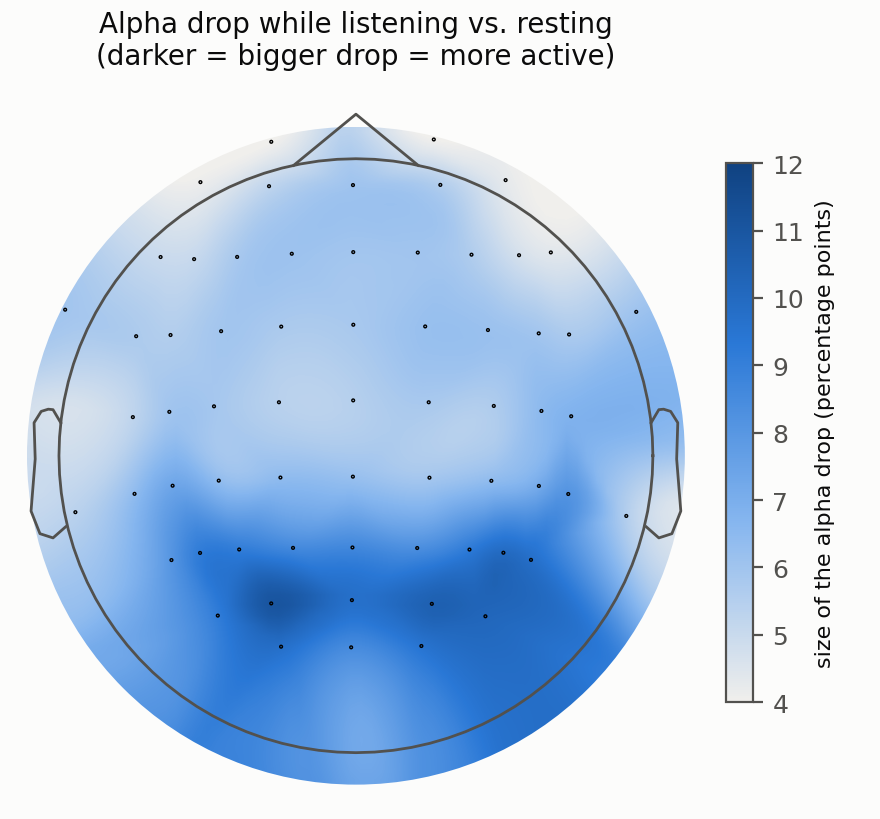
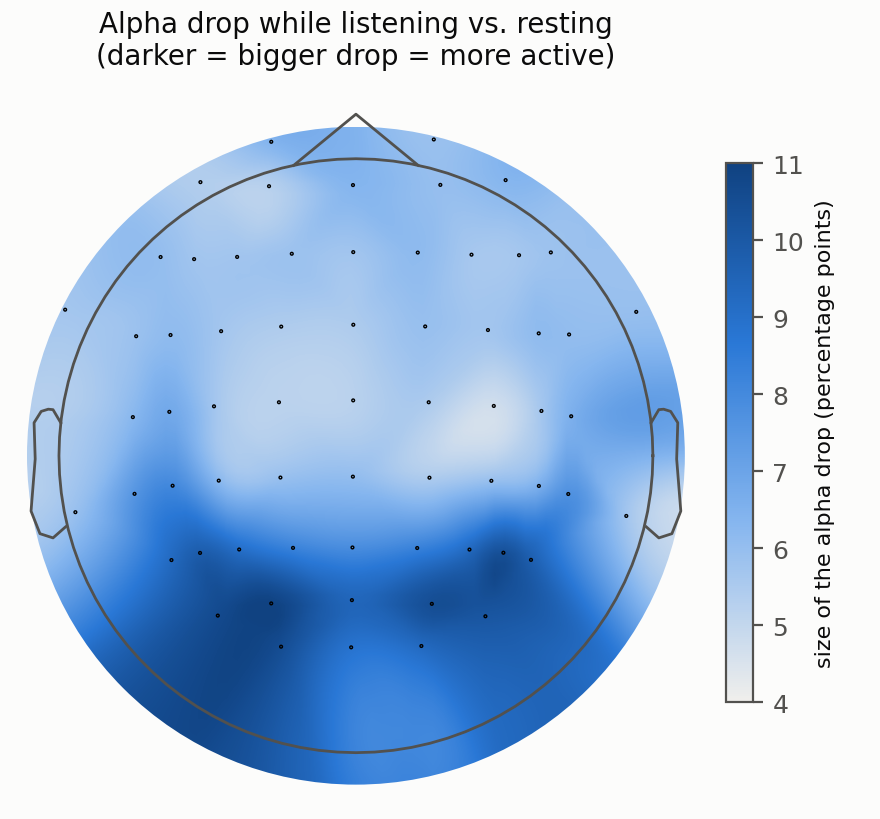
Both pages: results from ICA-cleaned features at 500 Hz, coding reliability, Spanish wording

diff --git a/es/index.html b/es/index.html
@@ -139,7 +139,7 @@ footer { margin-top: 60px; padding-top: 16px; border-top: 1px solid var(--line);
     <div class="head"><span class="num">Hallazgo 1</span><span class="badge solid">sólido</span></div>
     <h3>Escuchar "enciende" el cerebro, sobre todo en la parte posterior de la cabeza</h3>
     <figure>
-      <div class="plate small"><img src="../figs/es/alpha_listening.png?v=202611171425" alt="Mapa de la cabeza visto desde arriba: la bajada de alfa es mayor (azul oscuro) en la parte posterior y menor (claro) delante y en los lados"></div>
+      <div class="plate small"><img src="../figs/es/alpha_listening.png?v=202611181200" alt="Mapa de la cabeza visto desde arriba: la bajada de alfa es mayor (azul oscuro) en la parte posterior y menor (claro) delante y en los lados"></div>
       <figcaption>La cabeza vista desde arriba (nariz arriba). Azul más oscuro = mayor bajada de alfa al escuchar respecto al reposo. El alfa bajó en todas partes, al menos 4 puntos porcentuales, así que la escala empieza en 4 para que se vea dónde bajó más.</figcaption>
     </figure>
     <div class="label">Qué vimos</div>
@@ -147,55 +147,55 @@ footer { margin-top: 60px; padding-top: 16px; border-top: 1px solid var(--line);
     <div class="label">Por qué importa</div>
     <p>Las personas tuvieron los ojos cerrados todo el tiempo, así que no se trata de ver nada. Encaja con la idea del proyecto: escuchar estos sonidos implica regiones del cerebro que normalmente asociamos a la visión, quizá porque se construyen imágenes mentales.</p>
     <div class="label">Cuidado</div>
-    <p>El alfa también baja simplemente al prestar atención. Todavía no podemos decir que las zonas visuales estén haciendo un trabajo "visual".</p>
+    <p>El alfa también baja simplemente al prestar atención. Todavía no podemos decir que las zonas visuales estén haciendo un trabajo "visual". La bajada no es solo cansancio al final de la sesión: se ve igual de clara frente al reposo del principio que frente al del final.</p>
   </article>
 
   <article class="finding">
     <div class="head"><span class="num">Hallazgo 2</span><span class="badge promising">prometedor</span></div>
     <h3>Cuanto más movimiento imaginaban, menos alfa tenían</h3>
     <figure>
-      <div class="plate"><img src="../figs/es/movement_alpha.png?v=202611171425" alt="Gráfico de barras: el alfa está por encima de la media del oyente con imágenes quietas y baja escalón a escalón con movimiento lento, moderado y rápido"></div>
+      <div class="plate"><img src="../figs/es/movement_alpha.png?v=202611181200" alt="Gráfico de barras: el alfa de toda la cabeza está por encima de la media del oyente con imágenes quietas y baja escalón a escalón con movimiento lento, moderado y rápido"></div>
       <figcaption>Cada barra compara a las personas consigo mismas: cuánto alfa tenían con ese tipo de imagen, respecto a su propia media. Las líneas negras muestran la incertidumbre.</figcaption>
     </figure>
     <div class="label">Qué vimos</div>
     <p>Cuando alguien describía la imagen evocada como quieta, su alfa era más alto; cuando describía un movimiento rápido o intenso, era más bajo, escalón a escalón. Se mantiene al comparar a cada persona solo consigo misma.</p>
     <div class="label">Por qué importa</div>
-    <p>Une una medida cerebral con lo que las personas vivieron, que es justo de lo que trata el proyecto: el sonido percibido como algo que se mueve en el espacio. No se explica por lo activador o agradable que resultaba el sonido, y se mantiene al eliminar de los registros la actividad de ojos y músculos (incluso se refuerza un poco).</p>
+    <p>Une una medida cerebral con lo que las personas vivieron, que es justo de lo que trata el proyecto: el sonido percibido como algo que se mueve en el espacio. No se explica por lo activador o agradable que resultaba el sonido, y se mantiene al eliminar de los registros la actividad de ojos y músculos. Es aún más claro cuando la persona mencionaba expresamente una velocidad.</p>
     <div class="label">Un detalle intrigante</div>
-    <p>La relación parecía más fuerte con los sonidos sintéticos de SuperCollider que con los paisajes naturales. Una idea: con una grabación de lluvia, la persona <i>reconoce</i> la fuente y ya sabe cómo se mueve; con un sonido sintético abstracto no hay fuente, así que el oyente tiene que <i>construir</i> el movimiento a partir del propio sonido. La diferencia entre los dos tipos de sonido aún no es estadísticamente clara, así que por ahora es una hipótesis para el próximo estudio.</p>
+    <p>La relación va en la misma dirección con los sonidos sintéticos de SuperCollider y con los paisajes naturales, y parecía algo más fuerte con los sintéticos. Una idea: con una grabación de lluvia, la persona <i>reconoce</i> la fuente y ya sabe cómo se mueve; con un sonido sintético abstracto no hay fuente, así que el oyente tiene que <i>construir</i> el movimiento a partir del propio sonido. Pero la diferencia entre los dos tipos de sonido es pequeña y está lejos de ser estadísticamente clara, así que por ahora es solo una idea para el próximo estudio.</p>
     <div class="label">Cuidado</div>
-    <p>Alrededor de dos tercios de los oyentes (18 de 27) muestran el efecto. Es pequeño, está repartido por la cabeza en lugar de solo en la parte posterior, y lo encontramos buscando entre muchas relaciones posibles. Hay que confirmarlo con participantes nuevos.</p>
+    <p>Es una tendencia de grupo: algo más de la mitad de los oyentes (16 de 27) la muestran por sí solos. Es pequeña, está repartida por la cabeza en lugar de solo en la parte posterior, y la encontramos buscando entre muchas relaciones posibles. Hay que confirmarla con participantes nuevos.</p>
   </article>
 
   <article class="finding">
     <div class="head"><span class="num">Hallazgo 3</span><span class="badge unclear">aún no se sabe</span></div>
     <h3>Cada tipo de sonido natural parecía dejar una huella distinta, pero puede venir de ojos y músculos</h3>
     <figure>
-      <div class="plate"><img src="../figs/es/soundscapes.png?v=202611171425" alt="Barras horizontales para siete paisajes sonoros: trueno y olas los más altos, pájaros el más bajo"></div>
-      <figcaption>Una de las varias medidas que diferían entre paisajes: la "pendiente" del espectro de la señal cerebral. Una pendiente más inclinada suele interpretarse como un estado cerebral más tranquilo, menos excitado.</figcaption>
+      <div class="plate"><img src="../figs/es/soundscapes.png?v=202611181200" alt="Barras horizontales para siete paisajes sonoros: trueno y terremoto los más altos, lluvia y río los más bajos, todos con barras de error amplias"></div>
+      <figcaption>La medida que más seguía diferenciando los paisajes tras la limpieza: la "pendiente" del espectro de la señal cerebral. Una pendiente más inclinada suele interpretarse como un estado cerebral más tranquilo, menos excitado. Las líneas negras muestran la incertidumbre, que es grande.</figcaption>
     </figure>
     <div class="label">Qué vimos</div>
-    <p>Pájaros, río, lluvia, viento, olas, trueno y terremoto produjeron patrones cerebrales distintos, sobre todo en el equilibrio entre ritmos lentos y rápidos y en la complejidad de la señal. El canto de los pájaros tendía a ir con la señal más "viva", y el trueno y las olas con la más tranquila.</p>
+    <p>En los registros sin limpiar, pájaros, río, lluvia, viento, olas, trueno y terremoto produjeron patrones cerebrales claramente distintos, sobre todo en el equilibrio entre ritmos lentos y rápidos y en la complejidad de la señal.</p>
     <div class="label">Por qué hemos cambiado de opinión</div>
-    <p>El EEG también recoge los movimientos de los ojos (que siguen moviéndose bajo los párpados cerrados) y la tensión de los músculos de la cara y la cabeza. Al eliminar esas señales, las diferencias entre paisajes casi desaparecieron. Así que probablemente los distintos paisajes hacían mover los ojos o tensar los músculos de forma distinta (piensa en un trueno), más que cambiar la actividad cerebral en sí. Es interesante por sí mismo, pero no es un efecto cerebral.</p>
+    <p>El EEG también recoge los movimientos de los ojos (que siguen moviéndose bajo los párpados cerrados) y la tensión de los músculos de la cara y la cabeza. Al eliminar esas señales, la mayoría de las diferencias entre paisajes desaparecieron. Solo quedó una débil, en la pendiente del espectro: el trueno y el terremoto iban con una señal algo más tranquila, y la lluvia y el río con una algo más viva. Así que buena parte del efecto original probablemente venía de que la gente movía los ojos o tensaba los músculos de forma distinta (piensa en un trueno), más que de la actividad cerebral en sí. Lo que queda es demasiado débil para estar seguros.</p>
   </article>
 
   <article class="finding">
     <div class="head"><span class="num">Hallazgo 4</span><span class="badge promising">prometedor</span></div>
     <h3>Entre los sonidos sintéticos, lo que más importó fue la envolvente</h3>
     <figure>
-      <div class="plate"><img src="../figs/es/envelope_theta.png?v=202611171425" alt="Gráfico de líneas de theta central para las cuatro envolventes, con un pico en la percusiva y una línea gris por oyente"></div>
+      <div class="plate"><img src="../figs/es/envelope_theta.png?v=202611181200" alt="Gráfico de líneas de theta central para las cuatro envolventes, con un pico en la percusiva y una línea gris por oyente"></div>
       <figcaption>Bloque 2: proporción de theta, un ritmo lento (4–8 ciclos por segundo), en el centro de la cabeza para cada envolvente. Azul = media de todos los oyentes con su incertidumbre; líneas grises = cada oyente.</figcaption>
     </figure>
-    <p>Cambiar la envolvente (neutra, percusiva, de viento, on-off) cambió la actividad cerebral. La envolvente percusiva destacó, con más actividad theta. Cambiar la altura, el ancho de banda o los parciales no produjo diferencias claras. Los sonidos de cada bloque se pusieron siempre en el mismo orden, así que hay que confirmarlo.</p>
+    <p>Cambiar la envolvente (neutra, percusiva, de viento, on-off) cambió la actividad cerebral. La envolvente percusiva destacó: más actividad theta y, de forma aún más clara, una pendiente del espectro más inclinada en el centro de la cabeza. Cambiar la altura, el ancho de banda o los parciales no produjo diferencias claras. Los sonidos de cada bloque se pusieron siempre en el mismo orden, así que hay que confirmarlo.</p>
   </article>
 
   <article class="finding">
     <div class="head"><span class="num">Hallazgo 5</span><span class="badge solid">sólido</span></div>
     <h3>Las personas coinciden en cómo se sienten los sonidos, sobre todo en agrado y tamaño</h3>
     <figure>
-      <div class="plate"><img src="../figs/es/ratings.png?v=202611171425" alt="Gráficos de puntos con el agrado, la activación y el control medios de cada uno de los 27 sonidos, coloreados por bloque"></div>
-      <figcaption>Valoración media de cada sonido (1–7) con su incertidumbre. Izquierda: agrado (valencia). Centro: activación (arousal). Derecha: sensación de control (dominancia).</figcaption>
+      <div class="plate"><img src="../figs/es/ratings.png?v=202611181200" alt="Gráficos de puntos con el agrado, la activación y el control medios de cada uno de los 27 sonidos, coloreados por bloque"></div>
+      <figcaption>Valoración media de cada sonido (1–7) con su incertidumbre. Izquierda: agrado (valencia). Centro: activación. Derecha: sensación de control (dominancia).</figcaption>
     </figure>
     <p>Los sonidos se diferenciaron claramente en agrado, activación y control, y en el tamaño, la temperatura y el movimiento de las imágenes que evocaban. Cada persona es muy distinta, pero las medias del grupo son muy consistentes, sobre todo en agrado y tamaño imaginado. Pájaros y río fueron los más agradables; el bloque de parciales, la envolvente on-off y el terremoto, de los que menos.</p>
   </article>
@@ -226,7 +226,7 @@ footer { margin-top: 60px; padding-top: 16px; border-top: 1px solid var(--line);
   <ol class="steps">
     <li><b>Analizar los propios sonidos.</b> Medir la acústica de cada audio (ataques, modulaciones, brillo, rugosidad) y los parámetros de SuperCollider, para ver qué propiedades del sonido impulsan el movimiento imaginado y la respuesta cerebral.</li>
     <li><b>Hecho:</b> eliminada de los registros la actividad de ojos y músculos; medida la sincronía cerebral entre oyentes.</li>
-    <li><b>En curso:</b> una compañera está codificando por su cuenta una muestra de 120 descripciones de texto libre para comprobar la fiabilidad de nuestra codificación.</li>
+    <li><b>Hecho:</b> una compañera codificó por su cuenta, sin ver la nuestra, una muestra de 120 descripciones de texto libre. El acuerdo fue casi perfecto en tamaño y temperatura, muy alto en intensidad del movimiento y bueno en dirección del movimiento.</li>
     <li><b>Diseñar el estudio principal</b> con el orden barajado para cada persona, más participantes y una escala sencilla de 1 a 7 para el movimiento imaginado, poniendo a prueba el hallazgo 2 y la idea de "movimiento construido frente a reconocido" como hipótesis prerregistradas.</li>
   </ol>
 </section>
@@ -236,8 +236,8 @@ footer { margin-top: 60px; padding-top: 16px; border-top: 1px solid var(--line);
   <details>
     <summary>Procesado del EEG y medidas</summary>
     <ul>
-      <li>Eliminación de artefactos: ICA infomax extendido (40 componentes) por sujeto; se eliminaron los componentes que ICLabel clasificó como músculo, ojo, corazón, red eléctrica o ruido de canal con p ≥ ,70 (mediana de 8 por sujeto). Medidas recalculadas con la configuración original (ρ = ,97–,99 con las medidas originales).</li>
-      <li>64 canales, 500 Hz; notch 49–51 Hz; paso banda 0,5–70 Hz; referencia promedio; épocas de 5 s normalizadas (z) por época (por eso la media, la varianza y la potencia absoluta no informan y se excluyeron); rechazo de artefactos por umbral. Mediana de 9 épocas limpias por estímulo; 9 registros ausentes o con menos de 5 épocas.</li>
+      <li>Eliminación de artefactos: ICA infomax extendido (40 componentes) por sujeto, ajustado sobre una copia a 250 Hz y aplicado a los datos a 500 Hz; se eliminaron los componentes que ICLabel clasificó como músculo, ojo, corazón, red eléctrica o ruido de canal con p ≥ ,70 (mediana de 7 por sujeto, rango 2–19). Medidas recalculadas a 500 Hz con las definiciones de MEDUSA (sin ICA: ρ = ,91–,995 con las medidas originales de MEDUSA, medianas idénticas). Todos los resultados usan las medidas limpiadas con ICA; las originales se usan como comprobación de sensibilidad.</li>
+      <li>64 canales, 500 Hz; notch 49–51 Hz; paso banda FIR 1–70 Hz; referencia promedio; épocas de 5 s normalizadas (z) por época (por eso la media, la varianza y la potencia absoluta no informan y se excluyeron); rechazo de artefactos por umbral. Mediana de 9 épocas limpias por estímulo; 9 registros ausentes o con menos de 5 épocas.</li>
       <li>17 medidas principales: potencia relativa (δ, θ, α, β, γ), frecuencia mediana, entropía espectral, entropía muestral, complejidad de Lempel-Ziv, medida de tendencia central, exponente aperiódico (ajuste log-log 2–40 Hz excluyendo 7–14 Hz), frecuencia alfa individual, fuerza nodal wPLI (5 bandas). Mediana entre épocas; 6 regiones más la media global.</li>
     </ul>
   </details>
@@ -246,7 +246,7 @@ footer { margin-top: 60px; padding-top: 16px; border-top: 1px solid var(--line);
     <ul>
       <li>Nivel de canal: tests de permutación por clústeres espaciales intra-sujeto (masa de clúster, 5000 permutaciones; inversión de signo pareada o permutación de etiquetas intra-sujeto de una F de medidas repetidas).</li>
       <li>Nivel de región: ANOVA de medidas repetidas (Greenhouse-Geisser) y modelos lineales mixtos con la posición en la sesión como covariable (LRT); d<sub>z</sub> de Cohen con IC bootstrap; FDR de Benjamini-Hochberg por familia.</li>
-      <li>Cerebro–experiencia: modelos mixtos ensayo a ensayo con descomposición intra/inter-oyente de cada valoración (833 tests; 79 con q &lt; ,05). Sensibilidad: efecto aleatorio cruzado del estímulo, potencia gamma como indicador de EMG, covariables de valencia/arousal/dominancia, pendientes aleatorias por oyente.</li>
+      <li>Cerebro–experiencia: modelos mixtos ensayo a ensayo con descomposición intra/inter-oyente de cada valoración (833 tests; 27 con q &lt; ,05). Sensibilidad: efecto aleatorio cruzado del estímulo, potencia gamma como indicador de EMG, covariables de valencia, activación y dominancia, pendientes aleatorias por oyente.</li>
       <li>RSA: matrices de disimilitud EEG 27 × 27 por oyente frente a modelos de diseño y subjetivos; permutación de etiquetas de estímulo; correlaciones parciales controlando la distancia temporal; techo de ruido.</li>
       <li>Acuerdo entre oyentes: ICC a partir de un modelo de efectos aleatorios cruzados (estímulo × oyente), IC jackknife.</li>
     </ul>
@@ -256,25 +256,26 @@ footer { margin-top: 60px; padding-top: 16px; border-top: 1px solid var(--line);
     <div class="table-wrap"><table>
       <thead><tr><th>Resultado</th><th>Estimación</th></tr></thead>
       <tbody>
-        <tr><td>α, escuchar − reposo (global)</td><td>d<sub>z</sub> = −1,70 [−2,21; −1,41]; los 64 canales en el clúster</td></tr>
-        <tr><td>Bajada de α, parieto-occipital frente a temporal</td><td>d<sub>z</sub> = −0,59 [−0,96; −0,28], q = ,047</td></tr>
-        <tr><td>Movimiento → α (global, intra-oyente)</td><td>β = −0,037, r<sub>rm</sub> = −,15, q = ,001; sin cambios con valencia/arousal/dominancia, gamma y efecto cruzado del estímulo; β = −0,058 cuando se indica la velocidad</td></tr>
-        <tr><td>Movimiento → α con pendientes aleatorias</td><td>parieto-occipital p = ,002; pendientes por oyente en dos etapas d<sub>z</sub> = −0,38, p = ,058 (18/27 negativas); sin diferencia posterior &gt; temporal (p = ,79)</td></tr>
-        <tr><td>Movimiento × tipo de estímulo</td><td>sintéticos β = −0,035 (p = ,004); paisajes β = −0,014 (p = ,19); interacción p = ,29</td></tr>
-        <tr><td>Categoría de paisaje (exponente 1/f, global)</td><td>antes de ICA F = 4,12, p<sub>GG</sub> = ,003; tras ICA F = 2,45, p<sub>GG</sub> = ,052 (ninguna medida significativa tras ICA)</td></tr>
-        <tr><td>Movimiento → α tras ICA (global)</td><td>β = −0,032, p = ,0001; con covariables p = ,0001; con efecto cruzado del estímulo p = ,0006</td></tr>
-        <tr><td>Correlación entre sujetos (CorrCA, 3 componentes)</td><td>estímulos frente a reposo d<sub>z</sub> = 0,05, p = ,81; trueno ISC = ,044, p = ,002 (q = ,054); olas ,030, p = ,018</td></tr>
-        <tr><td>Bloque de envolvente (θ central)</td><td>F = 10,96, p<sub>GG</sub> &lt; ,001, η²<sub>p</sub> = ,30; percusiva − neutra d<sub>z</sub> = 0,58</td></tr>
-        <tr><td>Valencia ↔ complejidad temporal</td><td>r<sub>rm</sub> ≈ ,19, pero se reduce un 70–85 % al controlar gamma (probablemente en parte muscular)</td></tr>
+        <tr><td>α, escuchar − reposo (global)</td><td>d<sub>z</sub> = −1,21 [−1,61; −1,00]; los 64 canales en el clúster; solo frente al reposo inicial d<sub>z</sub> = −0,95, solo frente al final d<sub>z</sub> = −1,21</td></tr>
+        <tr><td>Bajada de α, parieto-occipital frente a temporal</td><td>d<sub>z</sub> = −0,60 [−0,92; −0,32], q = ,040</td></tr>
+        <tr><td>Movimiento → α (global, intra-oyente)</td><td>β = −0,033, r<sub>rm</sub> = −,13, q = ,005; con valencia, activación y dominancia β = −0,033, con gamma (indicador de EMG) β = −0,030, con efecto cruzado del estímulo β = −0,030 (todas p &lt; ,001); β = −0,062 cuando se indica la velocidad</td></tr>
+        <tr><td>Movimiento → α con pendientes aleatorias</td><td>global p = ,13, parieto-occipital p = ,005; pendientes por oyente en dos etapas d<sub>z</sub> = −0,41, p = ,044 (16/27 negativas); sin diferencia posterior &gt; temporal (p = ,11)</td></tr>
+        <tr><td>Movimiento × tipo de estímulo</td><td>sintéticos β = −0,029 (p = ,018); paisajes β = −0,018 (p = ,12); interacción p = ,61</td></tr>
+        <tr><td>Movimiento → α, medidas originales (sin ICA)</td><td>β = −0,037, p &lt; ,0001; con efecto cruzado del estímulo p = ,0002</td></tr>
+        <tr><td>Categoría de paisaje (exponente 1/f, global)</td><td>tras ICA F = 2,52, p<sub>GG</sub> = ,045, η²<sub>p</sub> = ,09 (clúster de canales q = ,026); antes de ICA F = 4,05, p<sub>GG</sub> = ,003</td></tr>
+        <tr><td>Correlación entre sujetos (CorrCA, 3 componentes)</td><td>estímulos frente a reposo d<sub>z</sub> = −0,01, p = ,96; trueno ISC = ,046, p = ,002 (q = ,054); olas ,031, p = ,012</td></tr>
+        <tr><td>Bloque de envolvente (central)</td><td>exponente 1/f F = 12,10, p<sub>GG</sub> &lt; ,001, η²<sub>p</sub> = ,32, percusiva − neutra d<sub>z</sub> = 0,82; θ F = 5,71, p<sub>GG</sub> = ,002, η²<sub>p</sub> = ,18, percusiva − neutra d<sub>z</sub> = 0,53</td></tr>
+        <tr><td>Valencia ↔ complejidad temporal</td><td>r<sub>rm</sub> ≈ ,15–,17, pero se reduce cerca de un 90 % al controlar gamma (probablemente muscular)</td></tr>
         <tr><td>Acuerdo del grupo (ICC, media de 27)</td><td>valencia ,82, tamaño ,82, temperatura ,73, movimiento ,68</td></tr>
-        <tr><td>RSA, valencia-arousal-dominancia propias | tiempo</td><td>ρ = ,029 [,008; ,053], q = ,006</td></tr>
+        <tr><td>Fiabilidad de la codificación (codificadora independiente, 120 descripciones)</td><td>κ de Cohen: tamaño ,998, temperatura ,998, intensidad del movimiento ,948, dirección del movimiento ,796</td></tr>
+        <tr><td>RSA, valencia, activación y dominancia propias | tiempo</td><td>ρ = ,028 [,004; ,053], q = ,007</td></tr>
       </tbody>
     </table></div>
   </details>
 </section>
 
 <footer>
-  <p>Resultados preliminares de un estudio piloto en curso; las cifras pueden cambiar antes de la publicación. Solo se muestran resultados de grupo. Pendiente: el significado de la etiqueta "sc" de la primera versión de los paisajes; una revisión humana de la codificación del texto libre.</p>
+  <p>Resultados preliminares de un estudio piloto en curso; las cifras pueden cambiar antes de la publicación. Solo se muestran resultados de grupo. Pendiente: el significado de la etiqueta "sc" de la primera versión de los paisajes.</p>
 </footer>
 </div>
 </body>

diff --git a/index.html b/index.html
@@ -139,7 +139,7 @@ footer { margin-top: 60px; padding-top: 16px; border-top: 1px solid var(--line);
     <div class="head"><span class="num">Finding 1</span><span class="badge solid">solid</span></div>
     <h3>Listening switches the brain on, especially at the back of the head</h3>
     <figure>
-      <div class="plate small"><img src="figs/en/alpha_listening.png?v=202611171425" alt="Head map seen from above: the alpha drop is largest (dark blue) over the back of the head and smallest (pale) at the front and sides"></div>
+      <div class="plate small"><img src="figs/en/alpha_listening.png?v=202611181200" alt="Head map seen from above: the alpha drop is largest (dark blue) over the back of the head and smallest (pale) at the front and sides"></div>
       <figcaption>The head seen from above (nose at the top). Darker blue = a bigger drop in alpha while listening compared with resting. Alpha dropped everywhere, by at least 4 percentage points, so the colour scale starts at 4 to show where the drop was largest.</figcaption>
     </figure>
     <div class="label">What we saw</div>
@@ -147,54 +147,54 @@ footer { margin-top: 60px; padding-top: 16px; border-top: 1px solid var(--line);
     <div class="label">Why it matters</div>
     <p>People had their eyes closed the whole time, so this is not about seeing anything. It fits the idea of the project: listening to these sounds engages brain regions we normally associate with vision, perhaps because people build mental images.</p>
     <div class="label">Be careful</div>
-    <p>Alpha also drops simply with attention. We cannot yet say the visual areas are doing "visual" work.</p>
+    <p>Alpha also drops simply with attention. We cannot yet say the visual areas are doing "visual" work. The drop is not just tiredness at the end of the session: it is just as clear compared with the rest at the start as with the rest at the end.</p>
   </article>
 
   <article class="finding">
     <div class="head"><span class="num">Finding 2</span><span class="badge promising">promising</span></div>
     <h3>The more movement people imagined, the less alpha they had</h3>
     <figure>
-      <div class="plate"><img src="figs/en/movement_alpha.png?v=202611171425" alt="Bar chart: alpha is above the listener's average for still images and falls step by step for slow, moderate and fast imagined movement"></div>
+      <div class="plate"><img src="figs/en/movement_alpha.png?v=202611181200" alt="Bar chart: alpha over the whole head is above the listener's average for still images and falls step by step for slow, moderate and fast imagined movement"></div>
       <figcaption>Each bar compares people with themselves: how much alpha they had with that kind of image, relative to their own average. The black lines show the uncertainty.</figcaption>
     </figure>
     <div class="label">What we saw</div>
     <p>When someone described the image a sound evoked as still, their alpha was higher; when they described fast or intense movement, it was lower, step by step. This holds when we compare each person only with themselves.</p>
     <div class="label">Why it matters</div>
-    <p>It links a brain measure to what people actually experienced, which is exactly what the project is about: sound perceived as something that moves in space. It is not explained by how activating or pleasant the sound felt, and it survives removing eye and muscle activity from the recordings (it even gets slightly stronger).</p>
+    <p>It links a brain measure to what people actually experienced, which is exactly what the project is about: sound perceived as something that moves in space. It is not explained by how activating or pleasant the sound felt, and it survives removing eye and muscle activity from the recordings. It is clearer still when people explicitly mentioned a speed.</p>
     <div class="label">An intriguing detail</div>
-    <p>The link looked stronger for the synthetic SuperCollider sounds than for the natural soundscapes. One idea: with a recording of rain, people <i>recognise</i> the source and already know how it moves; with an abstract synthetic sound there is no source, so the listener has to <i>build</i> the movement from the sound itself. The difference between the two kinds of sound is not yet statistically clear, so for now this is a hypothesis to test in the next study.</p>
+    <p>The link goes in the same direction for the synthetic SuperCollider sounds and for the natural soundscapes, and looked somewhat stronger for the synthetic ones. One idea: with a recording of rain, people <i>recognise</i> the source and already know how it moves; with an abstract synthetic sound there is no source, so the listener has to <i>build</i> the movement from the sound itself. But the difference between the two kinds of sound is small and far from statistically clear, so for now this is only an idea to test in the next study.</p>
     <div class="label">Be careful</div>
-    <p>About two thirds of listeners (18 of 27) show the effect. It is small, it is spread over the head rather than only at the back, and we found it while searching through many possible links. It needs to be confirmed with new participants.</p>
+    <p>It is a group trend: a bit more than half of the listeners (16 of 27) show it on their own. It is small, it is spread over the head rather than only at the back, and we found it while searching through many possible links. It needs to be confirmed with new participants.</p>
   </article>
 
   <article class="finding">
     <div class="head"><span class="num">Finding 3</span><span class="badge unclear">can't tell yet</span></div>
     <h3>Each kind of natural sound seemed to leave a different trace, but it may come from the eyes and muscles</h3>
     <figure>
-      <div class="plate"><img src="figs/en/soundscapes.png?v=202611171425" alt="Horizontal bars for seven soundscapes: thunder and sea waves highest, birds lowest"></div>
-      <figcaption>One of several measures that differed between soundscapes: the "steepness" of the brain signal's spectrum. A steeper spectrum is usually read as a calmer, less excited brain state.</figcaption>
+      <div class="plate"><img src="figs/en/soundscapes.png?v=202611181200" alt="Horizontal bars for seven soundscapes: thunder and earthquake highest, rain and river lowest, all with wide error bars"></div>
+      <figcaption>The measure that still differed most between soundscapes after cleaning: the "steepness" of the brain signal's spectrum. A steeper spectrum is usually read as a calmer, less excited brain state. The black lines show the uncertainty, which is large.</figcaption>
     </figure>
     <div class="label">What we saw</div>
-    <p>Birds, river, rain, wind, sea waves, thunder and earthquake produced different brain patterns, mainly in the balance between slow and fast rhythms and in signal complexity. Birdsong tended to go with the "liveliest" brain signal, and thunder and sea waves with the calmest.</p>
+    <p>In the raw recordings, birds, river, rain, wind, sea waves, thunder and earthquake produced clearly different brain patterns, mainly in the balance between slow and fast rhythms and in signal complexity.</p>
     <div class="label">Why we changed our mind</div>
-    <p>The EEG also picks up eye movements (the eyes keep moving under closed lids) and tension in face and scalp muscles. When we removed these signals, the differences between soundscapes mostly disappeared. So the different soundscapes probably made people move their eyes or tense their muscles differently (think of a thunderclap), rather than changing brain activity itself. That is interesting in its own right, but it is not a brain effect.</p>
+    <p>The EEG also picks up eye movements (the eyes keep moving under closed lids) and tension in face and scalp muscles. When we removed these signals, most of the differences between soundscapes disappeared. Only a weak one remained, in the steepness of the spectrum: thunder and earthquake went with a slightly calmer signal, rain and river with a slightly livelier one. So much of the original effect probably came from people moving their eyes or tensing their muscles differently (think of a thunderclap), rather than from brain activity itself. What remains is too weak to be sure of.</p>
   </article>
 
   <article class="finding">
     <div class="head"><span class="num">Finding 4</span><span class="badge promising">promising</span></div>
     <h3>Among the synthetic sounds, the envelope mattered most</h3>
     <figure>
-      <div class="plate"><img src="figs/en/envelope_theta.png?v=202611171425" alt="Line plot of central theta for the four envelopes, peaking for the percussive envelope, with one grey line per listener"></div>
+      <div class="plate"><img src="figs/en/envelope_theta.png?v=202611181200" alt="Line plot of central theta for the four envelopes, peaking for the percussive envelope, with one grey line per listener"></div>
       <figcaption>Block 2: share of theta, a slow rhythm (4–8 cycles per second), at the centre of the head for each envelope. Blue = average of all listeners with its uncertainty; grey lines = individual listeners.</figcaption>
     </figure>
-    <p>Changing the envelope (neutral, percussive, wind-like, on-off) changed brain activity. The percussive envelope stood out, with more slow theta activity. Changing pitch, bandwidth or partials did not produce clear differences. The sounds within each block were always played in the same order, so this needs confirming.</p>
+    <p>Changing the envelope (neutral, percussive, wind-like, on-off) changed brain activity. The percussive envelope stood out: more slow theta activity and, even more clearly, a steeper spectrum at the centre of the head. Changing pitch, bandwidth or partials did not produce clear differences. The sounds within each block were always played in the same order, so this needs confirming.</p>
   </article>
 
   <article class="finding">
     <div class="head"><span class="num">Finding 5</span><span class="badge solid">solid</span></div>
     <h3>People agree on how sounds feel, especially on pleasantness and size</h3>
     <figure>
-      <div class="plate"><img src="figs/en/ratings.png?v=202611171425" alt="Dot plots of average pleasantness, activation and control for each of the 27 sounds, coloured by block"></div>
+      <div class="plate"><img src="figs/en/ratings.png?v=202611181200" alt="Dot plots of average pleasantness, activation and control for each of the 27 sounds, coloured by block"></div>
       <figcaption>Average rating of every sound (1–7) with its uncertainty. Left: pleasantness (valence). Middle: activation (arousal). Right: feeling in control (dominance).</figcaption>
     </figure>
     <p>The sounds clearly differed in how pleasant, activating and controllable they felt, and in the size, temperature and movement of the images they evoked. Individuals vary a lot, but the group averages are very consistent, especially for pleasantness and imagined size. Birds and river were the most pleasant; the partials block, the on-off envelope and earthquake were among the least.</p>
@@ -226,7 +226,7 @@ footer { margin-top: 60px; padding-top: 16px; border-top: 1px solid var(--line);
   <ol class="steps">
     <li><b>Analyse the sounds themselves.</b> Measure the acoustics of each audio file (attacks, modulations, brightness, roughness) and the SuperCollider parameters, to see which sound properties drive the imagined movement and the brain response.</li>
     <li><b>Done:</b> eye and muscle activity removed from the recordings; brain synchrony between listeners measured.</li>
-    <li><b>In progress:</b> a colleague is independently coding a sample of 120 free-text descriptions to check how reliable our coding is.</li>
+    <li><b>Done:</b> a colleague independently coded a sample of 120 free-text descriptions, without seeing ours. Agreement was almost perfect for size and temperature, very high for movement intensity and good for movement direction.</li>
     <li><b>Design the main study</b> with the order shuffled for every person, more participants and a simple 1–7 scale for imagined movement, testing finding 2 and the "built vs recognised movement" idea as pre-registered hypotheses.</li>
   </ol>
 </section>
@@ -236,8 +236,8 @@ footer { margin-top: 60px; padding-top: 16px; border-top: 1px solid var(--line);
   <details>
     <summary>EEG processing and measures</summary>
     <ul>
-      <li>Artefact removal: extended-infomax ICA (40 components) per subject; components labelled by ICLabel as muscle, eye, heart, line or channel noise with p ≥ .70 removed (median 8 per subject). Features recomputed with the original settings (ρ = .97–.99 with the original features).</li>
-      <li>64 channels, 500 Hz; notch 49–51 Hz; band-pass 0.5–70 Hz; common average reference; 5-s epochs z-normalised per epoch (so mean, variance and absolute power are uninformative and were excluded); threshold-based artefact rejection. Median 9 clean epochs per stimulus; 9 recordings missing or with fewer than 5 epochs.</li>
+      <li>Artefact removal: extended-infomax ICA (40 components) per subject, fitted on a 250 Hz copy and applied to the 500 Hz data; components labelled by ICLabel as muscle, eye, heart, line or channel noise with p ≥ .70 removed (median 7 per subject, range 2–19). Features recomputed at 500 Hz with the MEDUSA definitions (without ICA: ρ = .91–.995 with the original MEDUSA features, identical medians). All results below use the ICA-cleaned features; the original features are used as a sensitivity check.</li>
+      <li>64 channels, 500 Hz; notch 49–51 Hz; 1–70 Hz FIR band-pass; common average reference; 5-s epochs z-normalised per epoch (so mean, variance and absolute power are uninformative and were excluded); threshold-based artefact rejection. Median 9 clean epochs per stimulus; 9 recordings missing or with fewer than 5 epochs.</li>
       <li>17 primary features: relative power (δ, θ, α, β, γ), median frequency, spectral entropy, sample entropy, Lempel-Ziv complexity, central tendency measure, aperiodic exponent (log-log fit 2–40 Hz excluding 7–14 Hz), individual alpha frequency, wPLI node strength (5 bands). Median across epochs; 6 ROIs plus global.</li>
     </ul>
   </details>
@@ -246,7 +246,7 @@ footer { margin-top: 60px; padding-top: 16px; border-top: 1px solid var(--line);
     <ul>
       <li>Channel level: within-subject spatial cluster permutation tests (cluster mass, 5000 permutations; paired sign-flip or within-subject label permutation of a repeated-measures F).</li>
       <li>ROI level: repeated-measures ANOVA (Greenhouse-Geisser) and linear mixed models with session position as covariate (LRT); Cohen's dz with bootstrap CIs; Benjamini-Hochberg FDR per family.</li>
-      <li>Brain–experience: trial-level mixed models with within/between-listener decomposition of each rating (833 tests; 79 at q &lt; .05). Sensitivity: crossed stimulus random effect, gamma power as EMG proxy, arousal/valence/dominance covariates, listener-specific random slopes.</li>
+      <li>Brain–experience: trial-level mixed models with within/between-listener decomposition of each rating (833 tests; 27 at q &lt; .05). Sensitivity: crossed stimulus random effect, gamma power as EMG proxy, arousal/valence/dominance covariates, listener-specific random slopes.</li>
       <li>RSA: per-listener 27 × 27 EEG dissimilarity matrices vs design and subjective models; stimulus-label permutation; partial correlations controlling temporal distance; noise ceiling.</li>
       <li>Inter-listener agreement: ICC from a crossed (stimulus × listener) random-effects model, jackknife CIs.</li>
     </ul>
@@ -256,25 +256,26 @@ footer { margin-top: 60px; padding-top: 16px; border-top: 1px solid var(--line);
     <div class="table-wrap"><table>
       <thead><tr><th>Result</th><th>Estimate</th></tr></thead>
       <tbody>
-        <tr><td>α, listening − rest (global)</td><td>dz = −1.70 [−2.21, −1.41]; all 64 channels in cluster</td></tr>
-        <tr><td>α drop, parieto-occipital vs temporal</td><td>dz = −0.59 [−0.96, −0.28], q = .047</td></tr>
-        <tr><td>Movement → α (global, within-listener)</td><td>β = −0.037, r<sub>rm</sub> = −.15, q = .001; unchanged with arousal/valence/dominance, gamma and crossed stimulus effects; β = −0.058 when speed is stated</td></tr>
-        <tr><td>Movement → α with listener random slopes</td><td>parieto-occipital p = .002; two-stage per-listener slopes dz = −0.38, p = .058 (18/27 negative); no posterior &gt; temporal difference (p = .79)</td></tr>
-        <tr><td>Movement × stimulus set</td><td>synthetic β = −0.035 (p = .004); soundscapes β = −0.014 (p = .19); interaction p = .29</td></tr>
-        <tr><td>Soundscape category (1/f exponent, global)</td><td>before ICA F = 4.12, p<sub>GG</sub> = .003; after ICA F = 2.45, p<sub>GG</sub> = .052 (no feature significant after ICA)</td></tr>
-        <tr><td>Movement → α after ICA (global)</td><td>β = −0.032, p = .0001; with covariates p = .0001; with crossed stimulus effect p = .0006</td></tr>
-        <tr><td>Inter-subject correlation (CorrCA, 3 components)</td><td>stimuli vs rest dz = 0.05, p = .81; thunder ISC = .044, p = .002 (q = .054); sea waves .030, p = .018</td></tr>
-        <tr><td>Envelope block (central θ)</td><td>F = 10.96, p<sub>GG</sub> &lt; .001, η²<sub>p</sub> = .30; percussive − neutral dz = 0.58</td></tr>
-        <tr><td>Valence ↔ temporal complexity</td><td>r<sub>rm</sub> ≈ .19, but shrinks 70–85% when controlling gamma (likely partly muscular)</td></tr>
+        <tr><td>α, listening − rest (global)</td><td>dz = −1.21 [−1.61, −1.00]; all 64 channels in cluster; vs initial rest only dz = −0.95, vs final rest only dz = −1.21</td></tr>
+        <tr><td>α drop, parieto-occipital vs temporal</td><td>dz = −0.60 [−0.92, −0.32], q = .040</td></tr>
+        <tr><td>Movement → α (global, within-listener)</td><td>β = −0.033, r<sub>rm</sub> = −.13, q = .005; with arousal/valence/dominance β = −0.033, with gamma (EMG proxy) β = −0.030, with crossed stimulus effect β = −0.030 (all p &lt; .001); β = −0.062 when speed is stated</td></tr>
+        <tr><td>Movement → α with listener random slopes</td><td>global p = .13, parieto-occipital p = .005; two-stage per-listener slopes dz = −0.41, p = .044 (16/27 negative); no posterior &gt; temporal difference (p = .11)</td></tr>
+        <tr><td>Movement × stimulus set</td><td>synthetic β = −0.029 (p = .018); soundscapes β = −0.018 (p = .12); interaction p = .61</td></tr>
+        <tr><td>Movement → α, original features (no ICA)</td><td>β = −0.037, p &lt; .0001; with crossed stimulus effect p = .0002</td></tr>
+        <tr><td>Soundscape category (1/f exponent, global)</td><td>after ICA F = 2.52, p<sub>GG</sub> = .045, η²<sub>p</sub> = .09 (channel cluster q = .026); before ICA F = 4.05, p<sub>GG</sub> = .003</td></tr>
+        <tr><td>Inter-subject correlation (CorrCA, 3 components)</td><td>stimuli vs rest dz = −0.01, p = .96; thunder ISC = .046, p = .002 (q = .054); sea waves .031, p = .012</td></tr>
+        <tr><td>Envelope block (central)</td><td>1/f exponent F = 12.10, p<sub>GG</sub> &lt; .001, η²<sub>p</sub> = .32, percussive − neutral dz = 0.82; θ F = 5.71, p<sub>GG</sub> = .002, η²<sub>p</sub> = .18, percussive − neutral dz = 0.53</td></tr>
+        <tr><td>Valence ↔ temporal complexity</td><td>r<sub>rm</sub> ≈ .15–.17, but shrinks by about 90% when controlling gamma (likely muscular)</td></tr>
         <tr><td>Group agreement (ICC, average of 27)</td><td>valence .82, size .82, temperature .73, movement .68</td></tr>
-        <tr><td>RSA, own valence-arousal-dominance | time</td><td>ρ = .029 [.008, .053], q = .006</td></tr>
+        <tr><td>Coding reliability (independent coder, 120 descriptions)</td><td>Cohen's κ: size .998, temperature .998, movement intensity .948, movement direction .796</td></tr>
+        <tr><td>RSA, own valence-arousal-dominance | time</td><td>ρ = .028 [.004, .053], q = .007</td></tr>
       </tbody>
     </table></div>
   </details>
 </section>
 
 <footer>
-  <p>Preliminary results of an ongoing pilot study; numbers may change before publication. Only group-level results are shown. Pending: the meaning of the "sc" label of the first soundscape version; a human check of the free-text coding.</p>
+  <p>Preliminary results of an ongoing pilot study; numbers may change before publication. Only group-level results are shown. Pending: the meaning of the "sc" label of the first soundscape version.</p>
 </footer>
 </div>
 </body>
